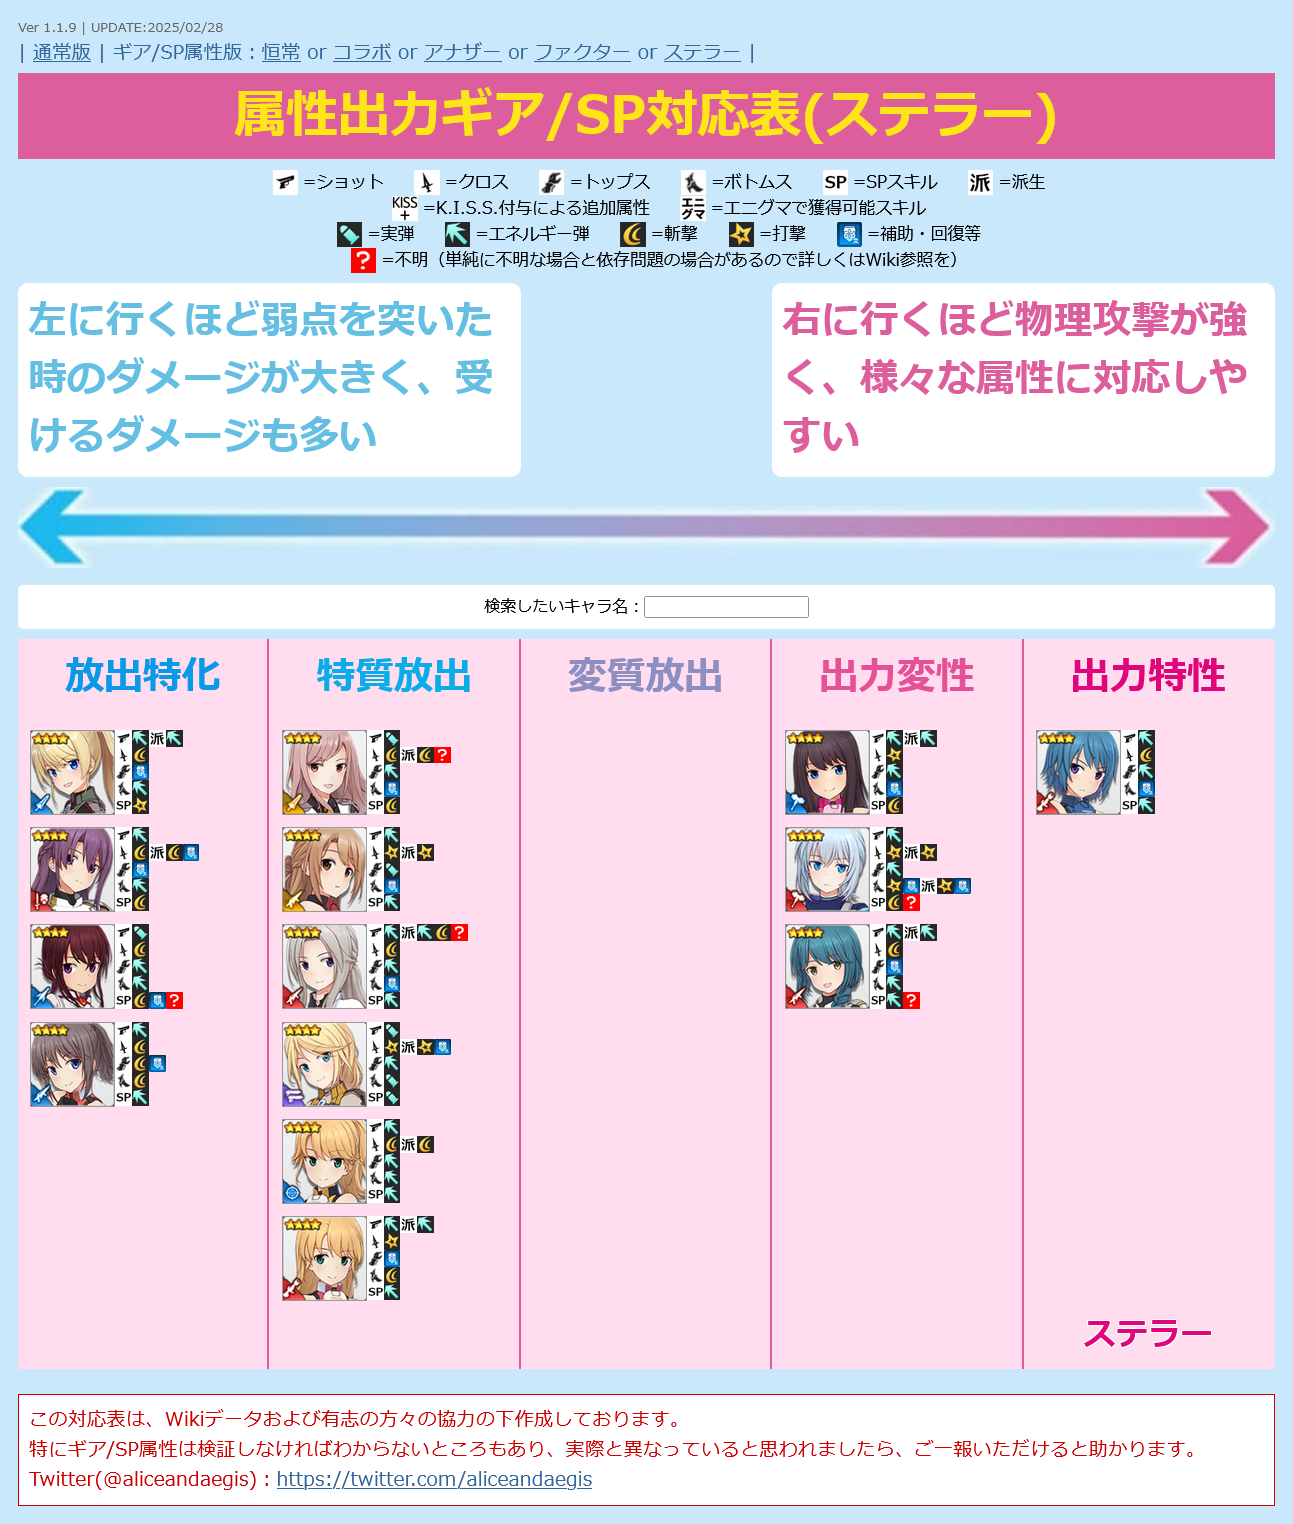
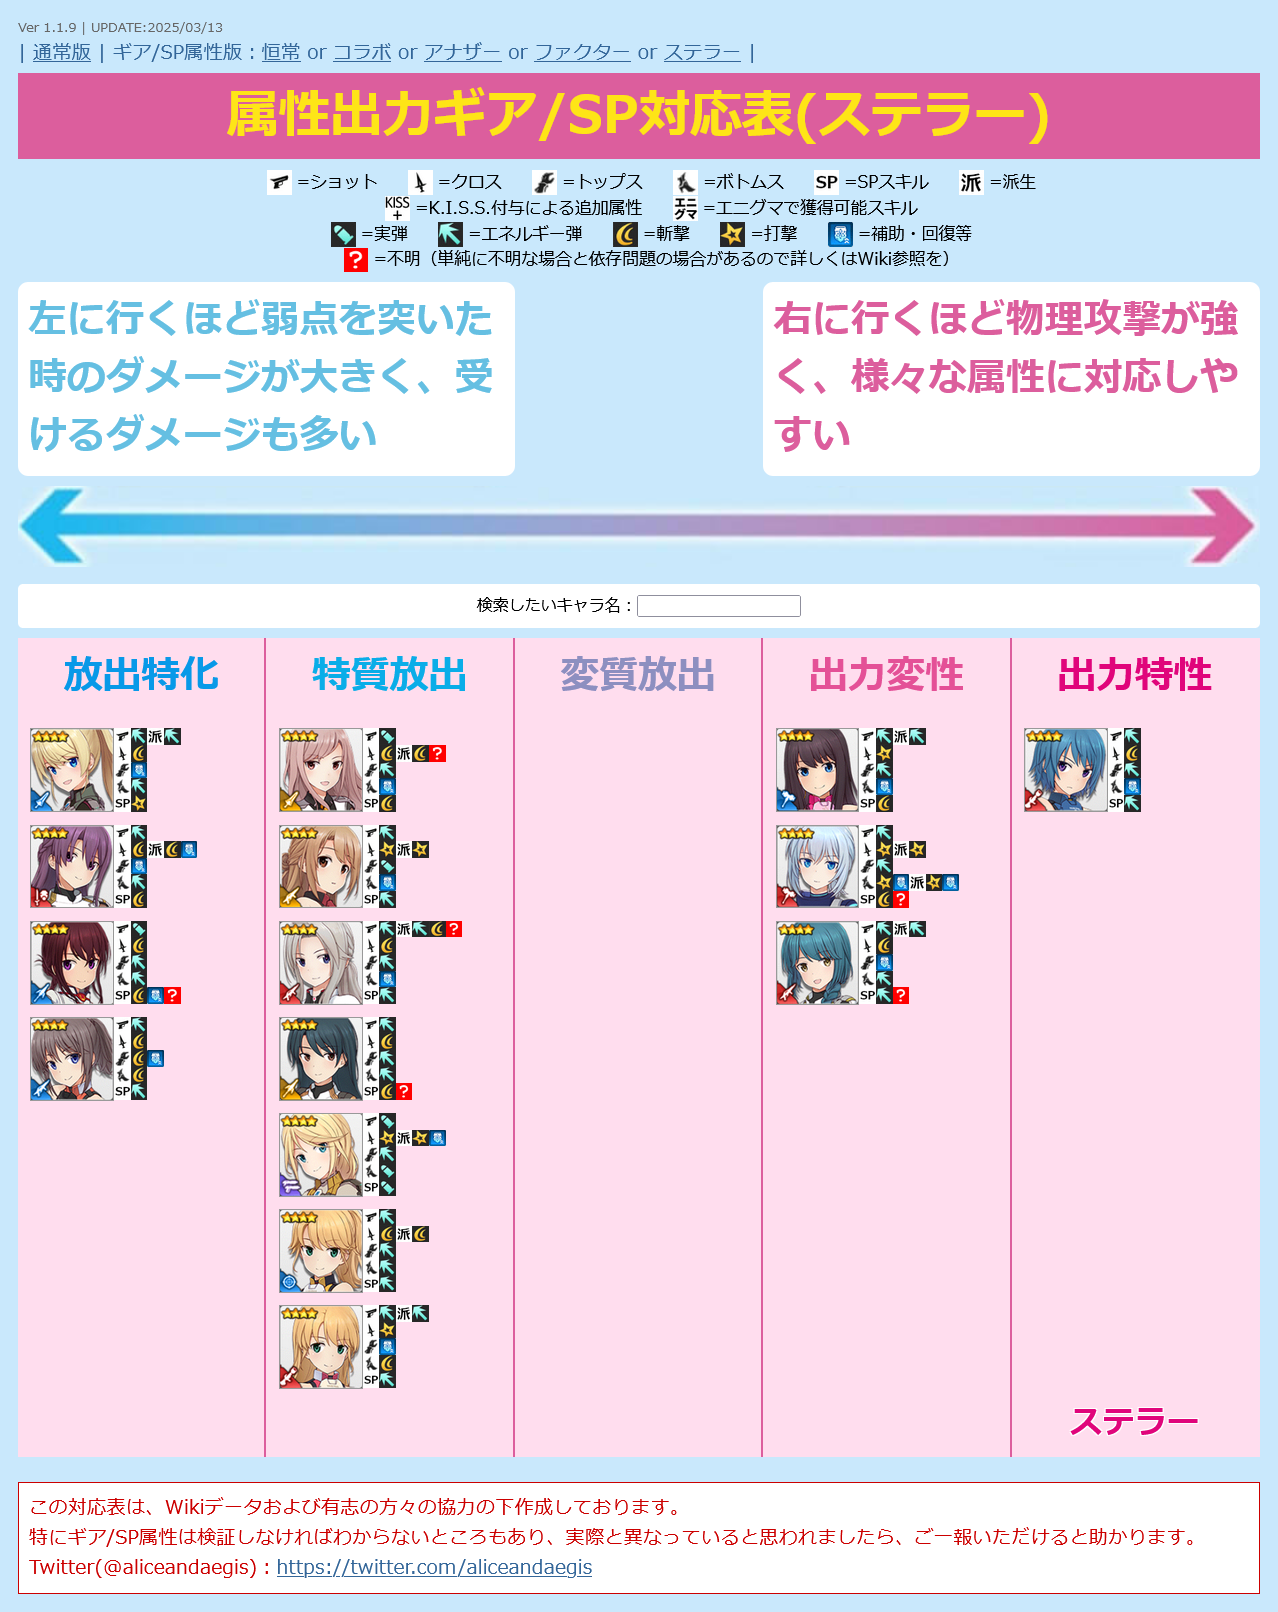
UPDATE charadata
・ステラー 山野 薫子 / プリーストを追加

Changed region(s): [[0.0, 0.0, 1.0, 0.8635], [0.0, 0.8635, 1.0, 0.9869]]

diff --git a/alice.html b/alice.html
@@ -12,7 +12,7 @@
   <script>
 
 /* 更新情報 必要に応じて書き換えてください */
-  var version = "Ver 1.1.9 | UPDATE:2025/02/28";
+  var version = "Ver 1.1.9 | UPDATE:2025/03/13";
 
 
 /*
@@ -1212,6 +1212,20 @@
       "attr": "2",
       "link": "https://wikiwiki.jp/alicegear/%E5%B1%B1%E9%87%8E%E8%96%AB%E5%AD%90%E7%8E%84%E5%A6%99",
       "category": "10"
+    },
+    {
+      "id": "28",
+      "type": "2",
+      "src": "stellar-kaoruko.png",
+      "name": "山野 薫子 / プリースト",
+      "equip1": "2",
+      "equip2": "3",
+      "equip3": "2",
+      "equip4": "2",
+      "sp": "2?",
+      "attr": "1",
+      "link": "https://wikiwiki.jp/alicegear/%E5%B1%B1%E9%87%8E%E8%96%AB%E5%AD%90/%E3%83%97%E3%83%AA%E3%83%BC%E3%82%B9%E3%83%88",
+      "category": "12"
     },
     {
       "id": "29",
